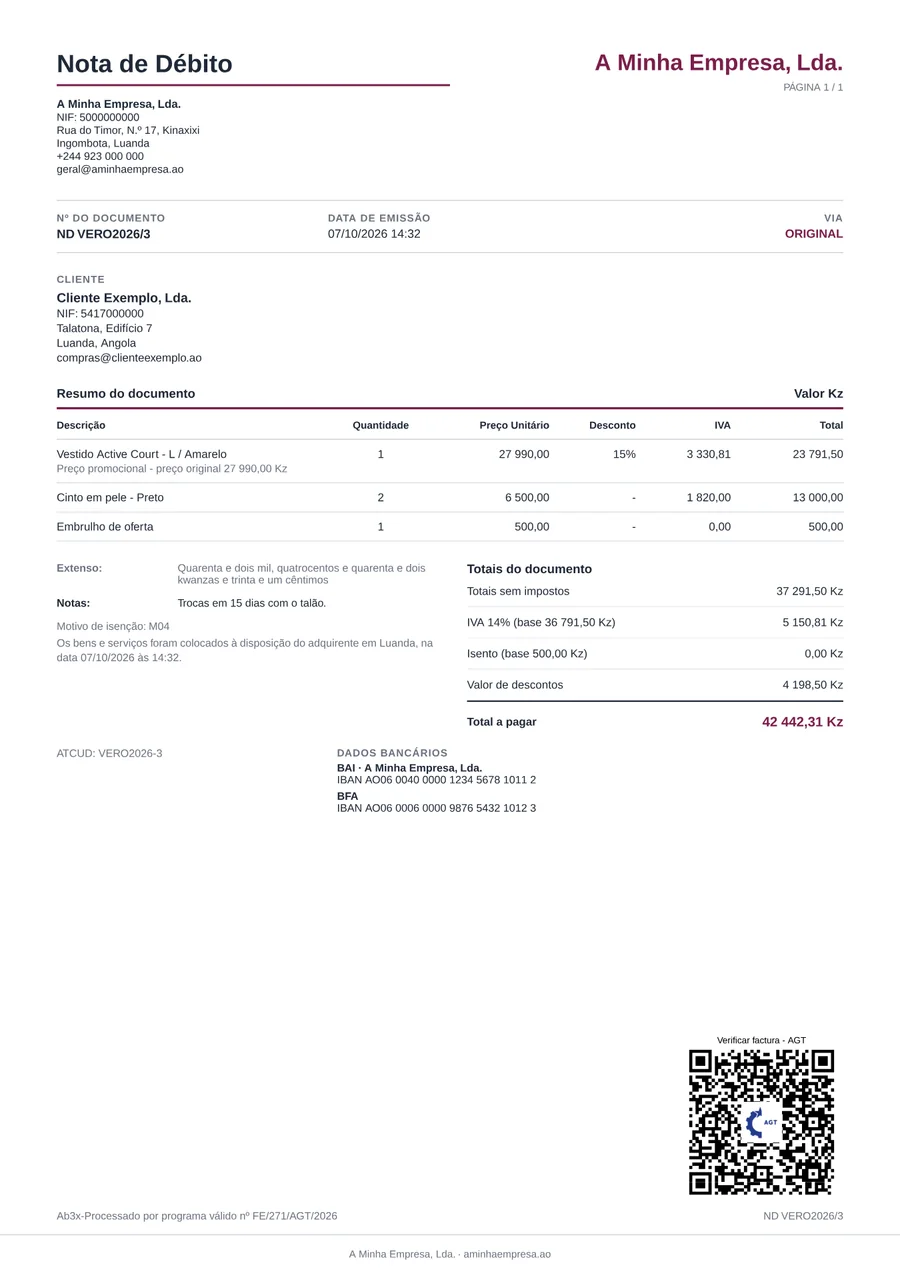
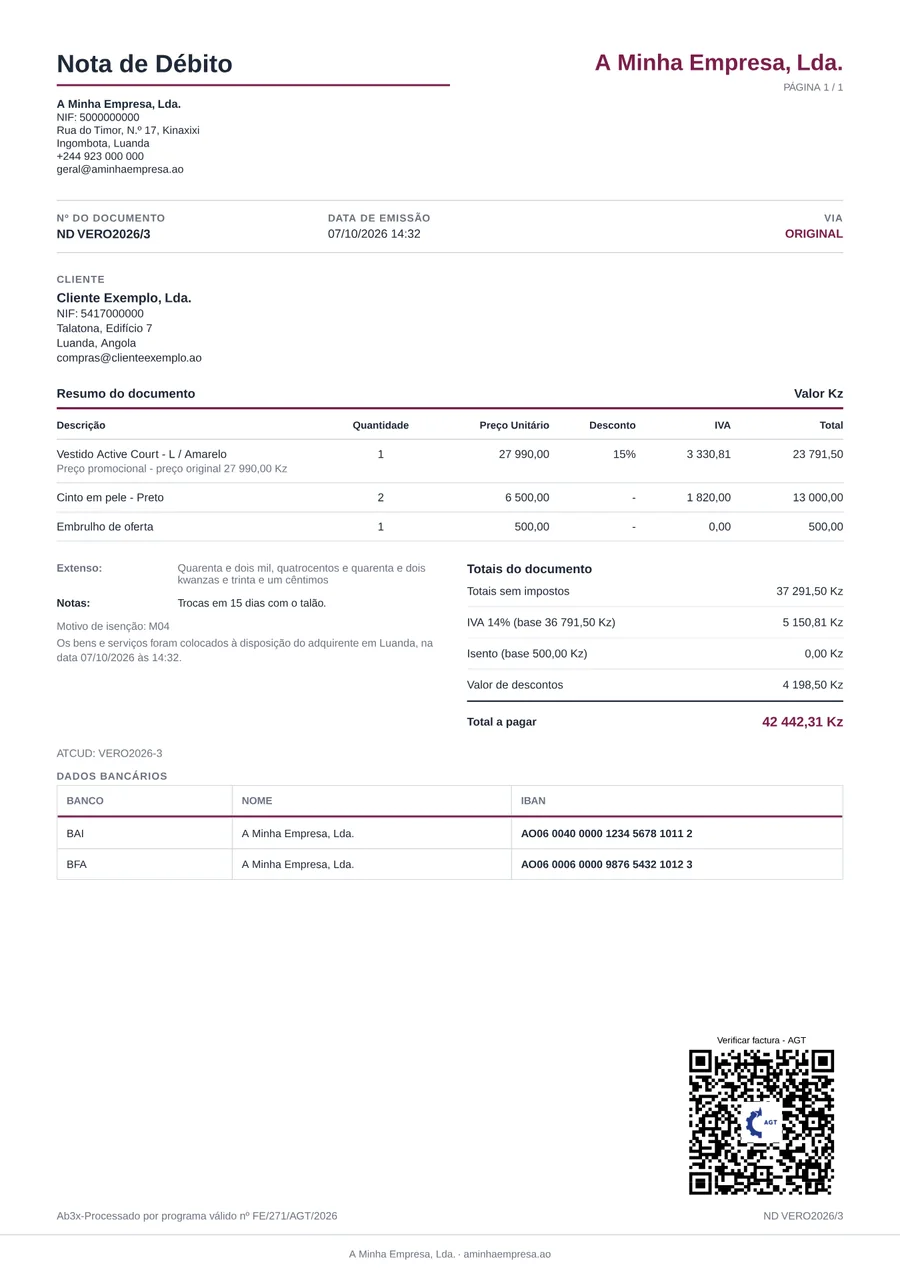
feat(invoice): tabela dos bancos Banco · Nome · IBAN (0.5.1); Corporativo com os dados bancários em tabela por baixo do ATCUD

Changed region(s): [[0.0622, 0.5821, 0.9333, 0.7046]]

diff --git a/templates/corporativo/template.tsx b/templates/corporativo/template.tsx
@@ -105,14 +105,15 @@ export default function Corporativo() {
           />
         </Row>
 
-        <Row className="mt-[16px] gap-6 items-start">
-          <Atcud prefix="ATCUD:" className="text-[9.5px] text-muted flex-1" />
-          <BankAccounts
-            label="Dados bancários"
-            className="text-[9.5px] flex-[2]"
-            labelClassName={label}
-          />
-        </Row>
+        <Atcud prefix="ATCUD:" className="text-[9.5px] text-muted mt-[16px]" />
+        <BankAccounts
+          label="Dados bancários"
+          layout="table"
+          className="text-[9.5px] mt-[10px]"
+          labelClassName={label}
+          headerClassName="text-[9px] font-bold uppercase text-muted py-[6px] border-b-2 border-brand"
+          gridClassName="border-[0.75px] border-line"
+        />
 
         <Footer className="px-[50px] justify-center h-[34px] border-t border-line">
           <Text className="text-[9px] text-muted text-center">{"{{org.name}} · {{org.website}}"}</Text>

diff --git a/packages/invoice/src/core/render.tsx b/packages/invoice/src/core/render.tsx
@@ -399,10 +399,10 @@ function Bank({ b }: { b: Extract<Block, { type: 'bank' }> }) {
   const grid = b.grid ? { width: b.grid.width, color: color(t, b.grid.color) ?? t.theme.colors.foreground } : null
   type Col = [string, number, (a: BankAccount) => string]
   const cols: Col[] = [
-    ['Banco', 1.2, (a) => a.bank], ['IBAN', 2.4, (a) => a.iban],
+    // Banco · Nome (titular da conta) · IBAN, e conta/SWIFT só quando alguma conta os tem
+    ['Banco', 1.2, (a) => a.bank], ['Nome', 2, (a) => a.holder ?? data.org.name], ['IBAN', 2.4, (a) => a.iban],
     ...(accounts.some((a) => a.account) ? [['Conta', 1.4, (a) => a.account ?? ''] as Col] : []),
     ...(accounts.some((a) => a.swift) ? [['SWIFT', 1, (a) => a.swift ?? ''] as Col] : []),
-    ['Titular', 2, (a) => a.holder ?? data.org.name],
   ]
   const cellExtra = (i: number) => ({ paddingVertical: 6, paddingHorizontal: 6, ...(grid && i > 0 ? { borderLeftWidth: grid.width, borderLeftColor: grid.color } : {}) })
   return (
